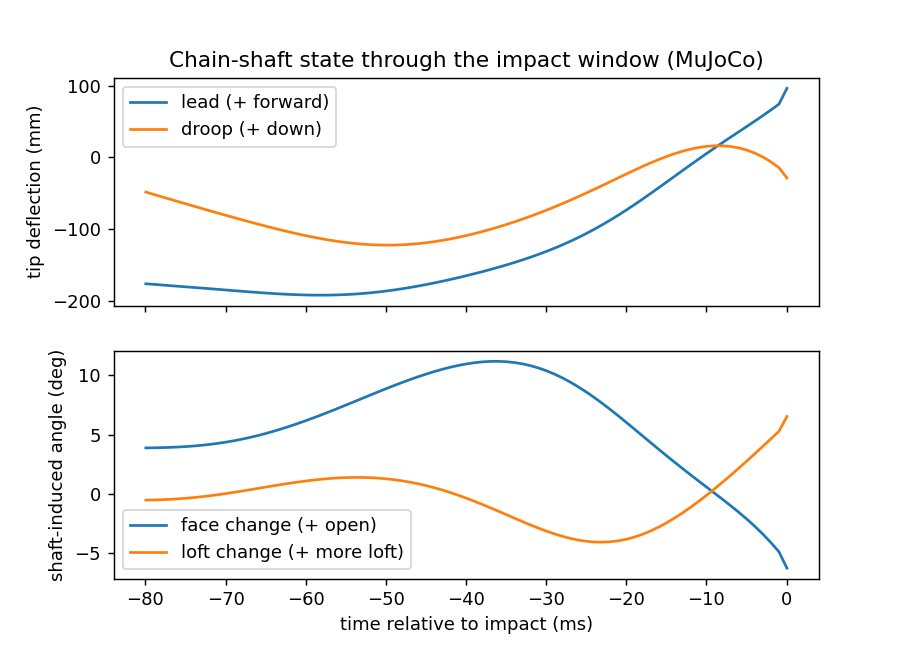
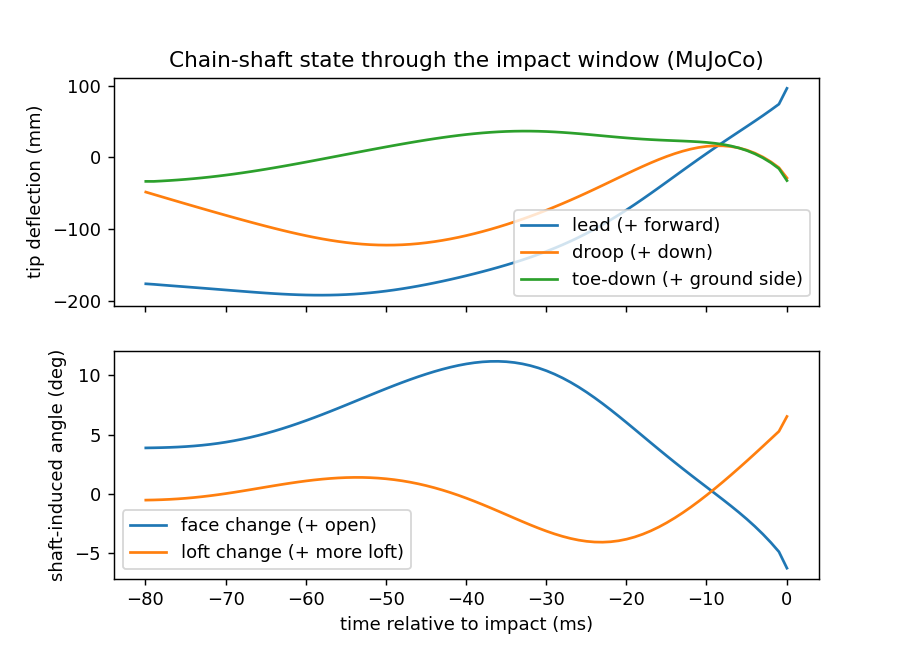
fix(impact): take the shaft axis from the chain, not the Clubhead face-frame site (Refs #14600)

diff --git a/tests/unit/impact_parameters/test_shaft_state.py b/tests/unit/impact_parameters/test_shaft_state.py
@@ -235,3 +235,40 @@ def test_pure_lead_deflection_enters_droop_only_through_v_dot_z():
     assert out["droop_m"] == pytest.approx(-0.02 * unit_v[2])
     assert out["term_in_plane_perp_m"] == pytest.approx(0.0, abs=1e-12)
     assert out["term_normal_m"] == pytest.approx(0.0, abs=1e-12)
+
+
+# Chain angles (x0,z0,x1,z1,x2,z2,x3,z3) read from the C4 driver replay at its
+# impact index (#14600): the real bend that the foreshortening check is about.
+_C4_IMPACT_ANGLES = (
+    0.04567363, -0.09707265, 0.01195988, -0.01465296,
+    0.01253004, -0.01832279, 0.00671477, -0.00257079,
+)  # fmt: skip
+
+
+def _c4_chain_model(site_quat: str):
+    from src.engines.physics_engines.mujoco.python.shaft_chain_mjcf import (
+        TIP_SITE,
+        export_clamped_shaft_mjcf,
+    )
+
+    xml = export_clamped_shaft_mjcf(
+        clamped_shaft_document(build_shaft_chain(DRIVER, 4))
+    )
+    old = 'name="shaft_tip" size=".001" pos="0 0.111375 0" quat="1 0 0 0"'
+    assert old in xml
+    xml = xml.replace(old, old.replace('quat="1 0 0 0"', f'quat="{site_quat}"'))
+    model = mujoco.MjModel.from_xml_string(xml)
+    return model, np.array([model.jnt_dofadr[j] for j in range(model.njnt)]), TIP_SITE
+
+
+@pytest.mark.parametrize("site_quat", ["1 0 0 0", "0.7071068 0.7071068 0 0"])
+def test_shaft_axis_is_the_chain_not_the_tip_site_frame(site_quat):
+    """The Clubhead site of the full-body model is a face frame whose y is not
+    the shaft; the axial foreshortening of the real C4 bend is ~-7 mm either way
+    (the replay used to report -31 mm from the site's y axis)."""
+    model, dofs, tip = _c4_chain_model(site_quat)
+    q = np.array([_C4_IMPACT_ANGLES])
+    state = shaft_state_series(model, _times(1), q, np.zeros_like(q), dofs, tip, FRAME)
+    np.testing.assert_allclose(state.shaft_axis[0], [0.0, 1.0, 0.0], atol=1e-9)
+    axial = float(state.tip_deflection_m[0] @ state.shaft_axis[0])
+    assert axial == pytest.approx(-6.77e-3, abs=0.1e-3)

diff --git a/src/shared/python/impact_parameters/shaft_state.py b/src/shared/python/impact_parameters/shaft_state.py
@@ -210,6 +210,22 @@ def face_loft_deltas(
     return face_b - face_s, loft_b - loft_s
 
 
+def _chain_axis(model: Any, data: Any, dofs: np.ndarray) -> np.ndarray:
+    """Unit shaft direction (grip to tip) of the straightened chain.
+
+    Taken from the first and last chain joint anchors, not from the tip site's
+    frame: the full-body ``Clubhead`` site is a face frame whose y axis is
+    perpendicular to the shaft (#14600), so it cannot name the shaft direction.
+    A single-joint chain falls back to its body's local y axis.
+    """
+    joints = np.asarray(model.dof_jntid)[dofs]
+    span = data.xanchor[joints[-1]] - data.xanchor[joints[0]]
+    length = float(np.linalg.norm(span))
+    if length > 1e-9:
+        return span / length
+    return data.xmat[int(model.jnt_bodyid[joints[0]])].reshape(3, 3)[:, 1].copy()
+
+
 def shaft_state_series(
     model: Any,
     times_s: object,
@@ -278,7 +294,7 @@ def shaft_state_series(
             )
         tip_velocity = jacp @ v[i]
         lead[i], droop[i] = decompose_deflection(deflection[i], tip_velocity, frame)
-        shaft_axis = data.site_xmat[site].reshape(3, 3)[:, 1]  # straight shaft
+        shaft_axis = _chain_axis(model, data, dofs)  # straight shaft
         toe_down[i] = toe_down_component(deflection[i], tip_velocity, shaft_axis, frame)
         tip_vel[i], axes[i] = tip_velocity, shaft_axis
     rate = (

diff --git a/changes/14600-shaft-axis-from-chain.md b/changes/14600-shaft-axis-from-chain.md
@@ -1,0 +1,4 @@
+---
+issue: 14600
+summary: "Fix shaft_state_series: shaft axis from chain joint anchors, not the Clubhead face-frame site y; C4 toe-down is -32.4 mm and axial foreshortening ~-7 mm"
+---
